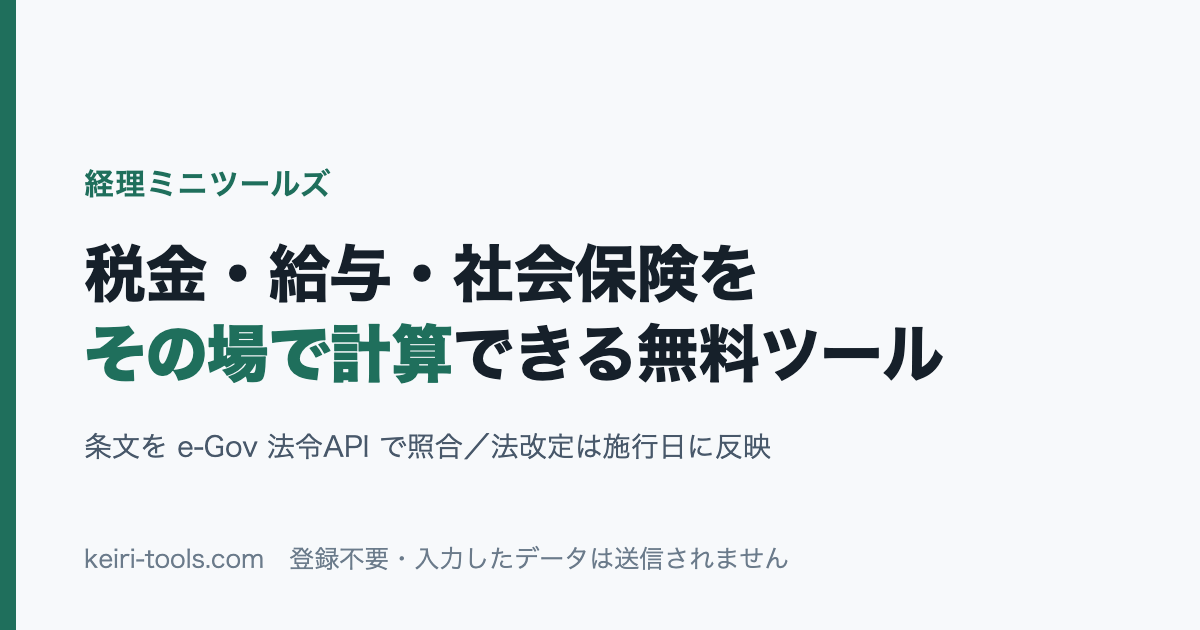
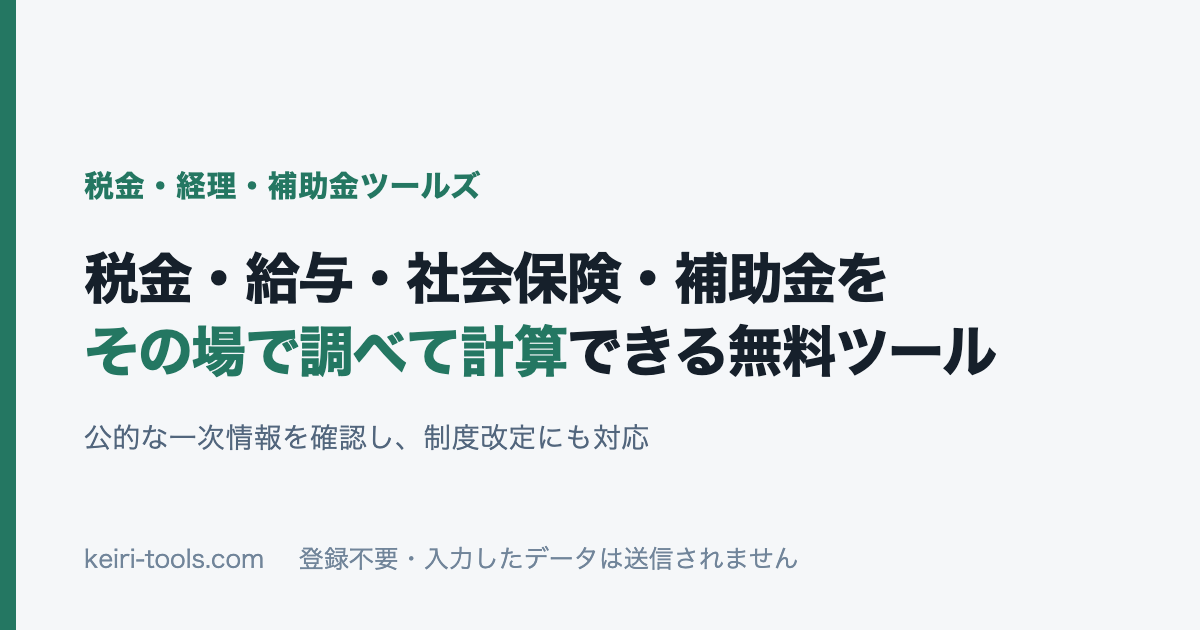
サイト全体レビューの指摘を修正: OGP画像の旧名・viewport欠落7件・404リンク2本ほか
fable にサイト全体をレビューさせ、指摘を codex で修正。
指摘は鵜呑みにせず、外形で確かめられるものは私が全数で当て直した。

■① OGP画像が旧名のままだった ★改称の最大の取りこぼし
`docs/ogp.png` のブランド行が「経理ミニツールズ」のまま。**204ページが og:image
として参照**しており、SNSにどのURLを貼っても旧ブランドのカードが出ていた。
**画像内の文字はテキスト検索に一切かからない**ため、631箇所の一括置換から漏れた。
→ 新名称で再生成。キャッチも「税金・給与・社会保険・補助金を…」に更新。
→ ★生成器を `tools/gen_ogp_image.mjs` + `tools/ogp_template.html` としてコミットした。
  前回は生成スクリプトが残っておらず、それが今回の取りこぼしの原因。二度は落ちない。
→ ★フォント指定を `-apple-system` から `"Hiragino Sans"` 先頭に変えた。
  headless Chromium では `-apple-system` が和文の太いウェイトに解決されず、
  `font-weight:800` を指定しても**細く描画される**（実測で確認。指定を変えただけで
  太さが元画像と揃い、span 境界に出ていた不自然な空きも消えた）。理由はテンプレートに記録。

■② viewport 欠落 7記事 — スマホで約980px幅に縮小描画されていた
実測 `scrollWidth=980`（正常は375）。文字が約1/2.6の大きさで表示される状態。
assyuku-kicho-houshiki / hojokin-asshuku-gendogaku / hojokin-kojin-jigyonushi /
hojokin-koteishisan-genka-shokyaku / hojokin-shiwake / hojokin-shohizei / hotei-fukurihi-keisan
★`test_article_structure.mjs` が viewport を検査していなかったため、
  **テスト全緑のまま素通りしていた**。検査項目に追加し、壊しテストで赤くなることを確認。

■③ 内部リンク切れ2本（本番で404を実測）
  /hotei-fukuri/ の `../shaho/`  → `../shakai-hoken/`（curl実測 404→200）
  /kokuho/ の `../kogaku/`      → `../kogaku-ryoyohi/`（同上）
★どのテストにも掛からず残っていた（7/29・8/08 導入）。
  `tests/test_internal_links.mjs`（4,149リンクをファイル存在で照合）と
  `tests/break_internal_links.mjs`（切断で赤・復元で緑）を追加。

■④ 二重OGP 12記事
`<!-- /ogp:auto -->` の後に手書きの og:/twitter: が丸ごと残り、og:description が
生成分と食い違っていた。head の正本が2つある状態だったので手書き側を削除。

■⑤ 375pxの横はみ出し / about の説明
出典の生URLが折り返せない・表が .scroll-wrap で包まれていない箇所を修正。
[…]

diff --git a/docs/column/taishokukin-zeikin/index.html b/docs/column/taishokukin-zeikin/index.html
@@ -179,12 +179,14 @@
   <h2 id="kekka">結論：退職金の税金はおどろくほど軽い</h2>
   <p>まず、実際の数字を見てください。すべて<b>令和8年分</b>の税率で計算しています（所得税＋復興特別所得税＋住民税10%）。</p>
 
+  <div class="scroll-wrap">
   <table>
     <tr><th>勤続年数</th><th>退職金</th><th>退職所得控除額</th><th>所得税＋復興税</th><th>住民税</th><th>天引き合計</th><th>手取り</th></tr>
     <tr><td>25年</td><td>1,000万円</td><td>1,150万円</td><td>0円</td><td>0円</td><td><b>0円</b></td><td>10,000,000円</td></tr>
     <tr><td>20年</td><td>1,000万円</td><td>800万円</td><td>51,050円</td><td>100,000円</td><td><b>151,050円</b><br>（1.51%）</td><td>9,848,950円</td></tr>
     <tr><td>30年</td><td>2,000万円</td><td>1,500万円</td><td>155,702円</td><td>250,000円</td><td><b>405,702円</b><br>（2.03%）</td><td>19,594,298円</td></tr>
   </table>
+  </div>
   <p style="font-size:13px;color:var(--sub)">※「退職所得の受給に関する申告書」を勤務先に提出している場合。一般退職手当等（勤続5年超・非役員）として計算。</p>
 
   <p>給与に対する税・社会保険の天引きが2割前後になることを考えると、<b>2%前後という軽さ</b>は際立っています。<b>勤続25年で1,000万円なら、1円も引かれません。</b></p>
@@ -200,11 +202,13 @@
 
   <h3>① 退職所得控除額を計算する</h3>
   <p>まず、退職金からごっそり差し引ける枠を計算します。これが<b>退職所得控除額</b>です。</p>
+  <div class="scroll-wrap">
   <table>
     <tr><th>勤続年数（＝A）</th><th>退職所得控除額</th></tr>
     <tr><td>20年以下</td><td><b>40万円 × A</b>（80万円に満たない場合は80万円）</td></tr>
     <tr><td>20年超</td><td><b>800万円 ＋ 70万円 × (A − 20年)</b></td></tr>
   </table>
+  </div>
   <p>勤続30年なら <b>800万円 ＋ 70万円 × 10年 ＝ 1,500万円</b> です。</p>
 
   <div class="callout">
@@ -226,6 +230,7 @@
   <h3>③ 所得税と住民税を計算する（分離課税）</h3>
   <p>退職所得は<b>他の所得と分離して</b>税額を計算します。給与や事業所得と合算しないので、その年に高い給与があっても税率が跳ね上がりません。</p>
   <p><b>所得税</b>は、下の速算表に課税退職所得金額を当てはめます（令和8年分）。</p>
+  <div class="scroll-wrap">
   <table>
     <tr><th>課税退職所得金額（A）</th><th>所得税率（B）</th><th>控除額（C）</th></tr>
     <tr><td>195万円以下</td><td>5%</td><td>0円</td></tr>
@@ -236,6 +241,7 @@
     <tr><td>1,800万円超 4,000万円以下</td><td>40%</td><td>2,796,000円</td></tr>
     <tr><td>4,000万円超</td><td>45%</td><td>4,796,000円</td></tr>
   </table>
+  </div>
   <p style="font-size:13px;color:var(--sub)">税額＝（A × B − C）× <b>102.1%</b>（この2.1%は、令和8年までに受け取る分は復興特別所得税。令和9年1月1日以後に受け取る分は防衛特別所得税1%＋復興特別所得税1.1%に組み替わりますが、合計2.1%は変わりません）。1円未満は切り捨て。</p>
 
   <p><b>住民税</b>は、同じ課税退職所得金額に一律<b>10%</b>（市町村民税6% ＋ 道府県民税4%）です。給与の住民税と違って翌年に請求されるのではなく、<b>退職金の支払時にその場で特別徴収</b>されます。</p>
@@ -297,6 +303,7 @@
   <p>ここが、この記事でいちばん大事なところです。<b>たった1枚の紙で、天引き額が数百万円変わります。</b></p>
   <p>これまで説明した<b>「退職所得控除」も「2分の1課税」も、勤務先が勤続年数を知っていて初めて適用できます</b>。その勤続年数を勤務先に申告する紙が<b>「退職所得の受給に関する申告書（退職所得申告書）」</b>です。</p>
 
+  <div class="scroll-wrap">
   <table>
     <tr><th></th><th>申告書を出した</th><th>出さなかった</th></tr>
     <tr><td>退職所得控除</td><td><b>使える</b></td><td style="color:#a8641b"><b>使えない</b></td></tr>
@@ -304,6 +311,7 @@
     <tr><td>源泉徴収される所得税</td><td>退職所得の金額に応じた正しい税額</td><td style="color:#a8641b"><b>支給額 × 一律 20.42%</b></td></tr>
     <tr><td>確定申告</td><td>原則<b>不要</b></td><td><b>自分で確定申告して精算</b>（放置すると戻らない）</td></tr>
   </table>
+  </div>
 
   <p>同じ<b>勤続30年・退職金2,000万円</b>で比べます。</p>
 
@@ -380,12 +388,14 @@
   <h2 id="tanki">勤続5年以下は要注意（短期退職手当等・特定役員退職手当等）</h2>
   <p>「退職金は必ず2分の1になる」と思っていると足元をすくわれます。<b>勤続5年以下だと、2分の1課税が制限されます。</b></p>
 
+  <div class="scroll-wrap">
   <table>
     <tr><th>区分</th><th>だれが対象か</th><th>2分の1課税</th></tr>
     <tr><td><b>一般退職手当等</b></td><td>下の2つ以外（通常はこれ）</td><td>全額に適用</td></tr>
     <tr><td><b>短期退職手当等</b></td><td>役員等以外で、<b>勤続年数5年以下</b></td><td>（退職金 − 控除額）のうち<b>300万円まで</b>は適用。<b>300万円を超える部分は適用なし</b></td></tr>
     <tr><td><b>特定役員退職手当等</b></td><td><b>役員等勤続年数5年以下</b>の役員等（取締役・執行役・監査役、国会議員・地方議員、国家公務員・地方公務員など）</td><td style="color:#a8641b"><b>まったく適用なし</b></td></tr>
   </table>
+  </div>
   <p style="font-size:13px;color:var(--sub)">「短期退職手当等」は令和4年分から導入された区分です（役員以外にも1／2制限を広げたもの）。「特定役員退職手当等」は平成25年分から。</p>
 
   <h3>実例：勤続4年・退職金600万円（役員ではない社員）</h3>
@@ -451,17 +461,20 @@
   <p>退職所得控除は「勤続年数」で決まります。ところが、iDeCoの加入期間と会社の勤続期間は<b>ふつう重なっています</b>。両方でフルに控除を使えると二重取りになるため、法律（所得税法施行令第70条）は<b>重複期間ぶんの控除額を差し引く</b>調整を定めています。</p>
   <p>問題は、<b>「どこまで過去にさかのぼって調整するか」</b>。ここが受け取る順番で3通りに分かれます。</p>
 
+  <div class="scroll-wrap">
   <table>
     <tr><th>受け取る順番</th><th>さかのぼる期間</th><th>根拠</th></tr>
     <tr><td>退職金 → <b>そのあと</b>退職金</td><td>前年以前 <b>4年内</b></td><td>所得税法施行令70条1項2号イ</td></tr>
     <tr><td><b>DC一時金</b>（iDeCo・企業型DC）→ そのあと退職金</td><td>前年以前 <b>9年内</b><br><span style="font-size:12px;color:var(--sub)">（令和8年1月1日以後に受け取ったDC一時金。それ以前に受け取ったものは従来どおり4年内）</span></td><td>同 ロ</td></tr>
     <tr><td>退職金 → そのあと<b>DC一時金</b></td><td>前年以前 <b>19年内</b></td><td>同 ハ</td></tr>
   </table>
+  </div>
 
   <p>従来「iDeCoは退職金の5年前までに受け取れば調整されない（5年ルール）」と言われていたのは、この<b>4年内</b>が根拠でした。<b>令和8年1月1日以後に受け取るDC一時金からは、これが9年内（＝いわゆる10年ルール）に広がりました。</b>60歳でiDeCoを受け取り、65歳で退職——という定番の組み合わせは、<b>これからは調整の対象になります</b>。</p>
 
   <h3>実例：60歳でiDeCo一時金、65歳で退職金</h3>
   <p>iDeCo加入20年（40〜60歳）、60歳で一時金1,000万円を受給。65歳で退職、勤続40年、退職金2,000万円。</p>
+  <div class="scroll-wrap">
   <table>
     <tr><th></th><th>調整あり（前年以前9年内にiDeCo）</th><th>調整なし（10年以上あけた場合）</th></tr>
     <tr><td>退職所得控除額</td><td>2,200万円 − <b>800万円</b> ＝ <b>1,400万円</b><br><span style="font-size:12px;color:var(--sub)">重複20年ぶん（40万円×20年＝800万円）を差し引く</span></td><td><b>2,200万円</b><br><span style="font-size:12px;color:var(--sub)">800万円＋70万円×20年</span></td></tr>
@@ -470,6 +483,7 @@
     <tr><td>住民税</td><td>300,000円</td><td>0円</td></tr>
     <tr><td><b>天引き合計</b></td><td style="color:#a8641b"><b>506,752円</b></td><td><b>0円</b></td></tr>
   </table>
+  </div>
   <p><b>同じ退職金2,000万円で、税金が506,752円か、ゼロか。</b>受け取る年をずらすだけでこれだけ変わります。</p>
 
   <div class="callout">

diff --git a/docs/iryohi/index.html b/docs/iryohi/index.html
@@ -169,6 +169,7 @@
   <p>「10万円を超えた分が戻ってくる」と誤解されがちですが、戻るのは<b>控除額に税率を掛けた分</b>だけです。下の表は、このページの計算機と<b>同じ計算</b>で出しています（保険金などの補填がない場合）。</p>
 
   <h3>① 年収500万円・所得税率10%の人（足切りは10万円）</h3>
+  <div class="scroll-wrap">
   <table class="tbl" id="hayami-iryohi">
     <thead><tr><th>1年間に払った医療費</th><th>医療費控除の控除額</th><th>戻る税金の目安</th></tr></thead>
     <tbody>
@@ -181,6 +182,7 @@
       <tr><td>¥1,000,000</td><td>¥900,000</td><td>¥181,890</td></tr>
     </tbody>
   </table>
+  </div>
   <div class="callout" id="juman-choudo">
     <b>医療費がちょうど10万円なら、戻るのは0円です</b>
     足切り（この人は10万円）を引いた残りが控除額なので、10万円−10万円＝<b>控除額0円</b>、戻る税金も<b>0円</b>です。10万円は「超えた分から効きはじめる線」であって、「10万円払えば戻ってくる額」ではありません。医療費が<b>12万円</b>でようやく控除額2万円・戻り<b>¥4,042</b>です。
@@ -188,6 +190,7 @@
 
   <h3>② 医療費10万円・年収が低い人（足切りは総所得金額等の5%）</h3>
   <p>総所得金額等が200万円未満なら足切りは<b>その5%</b>になるので、<b>同じ医療費10万円でも戻る額が出ます</b>（所得税法73条1項）。所得税率5%帯として計算しています。</p>
+  <div class="scroll-wrap">
   <table class="tbl" id="hayami-nenshu">
     <thead><tr><th>給与収入（年収）</th><th>総所得金額等</th><th>足切り額</th><th>控除額</th><th>戻る目安</th><th>うち住民税</th></tr></thead>
     <tbody>
@@ -198,6 +201,7 @@
       <tr><td>¥3,000,000</td><td>¥2,020,000</td><td>¥100,000</td><td>¥0</td><td>¥0</td><td>¥0</td></tr>
     </tbody>
   </table>
+  </div>
   <div class="note" id="hayami-note">
     <b>この帯の人は、所得税がもともと0円のことがあります。</b>所得控除を増やしても<b>納めていない所得税は戻りません</b>（表の「うち住民税」の列だけが残ります）。また足切りは<b>年収ではなく総所得金額等</b>で決まるため、<b>年収およそ298万円から10万円側に切り替わります</b>（令和8年分の給与所得控除で換算した場合）。表の額は令和8年分・保険金の補填なし・社会保険料などの他の控除は考慮しない<b>目安</b>です。
   </div>

diff --git a/docs/column/furusato-nozei-keisan/index.html b/docs/column/furusato-nozei-keisan/index.html
@@ -291,11 +291,13 @@
   <h2 id="chokabun">上限を1円でも超えるとどうなるか（超過分は全額自己負担）</h2>
   <p>ここが「計算」の核心です。上限を超えた寄附は、<b>超過分が丸ごと自己負担</b>になります。理由は、③住民税特例分の<b>「所得割額の20％」という天井</b>。寄附を増やしても③はそこで頭打ちになり、①②を足しても「寄附額−2,000円」に届かなくなるからです。</p>
   <p>先ほどの<b>年収500万・独身（上限60,704円・改正前）</b>の人が、勢いで80,000円を寄附した場合を見ます。</p>
+  <div class="scroll-wrap">
   <table>
     <tr><th>寄附額</th><th>① 所得税</th><th>② 住民税基本分</th><th>③ 住民税特例分</th><th>控除の合計</th><th>自己負担</th></tr>
     <tr><td>60,000円（上限内）</td><td>5,921円</td><td>5,800円</td><td>46,279円</td><td>58,000円</td><td><b>2,000円</b></td></tr>
     <tr style="border-top:2px solid var(--accent)"><td>80,000円（上限超え）</td><td>7,963円</td><td>7,800円</td><td><b>46,840円</b>（天井）</td><td>62,603円</td><td><b>17,397円</b></td></tr>
   </table>
+  </div>
   <p>寄附を60,000円から80,000円へ2万円増やしたのに、③特例分は<b>46,279円→46,840円へ561円しか増えていません</b>（天井46,840円に張り付いたため）。結果、<b>自己負担は2,000円から17,397円へ跳ね上がります</b>。増やした2万円のうち、税金で戻るのは①②③合わせて約4,600円だけ。差額の約1万5千円は、返礼品の価値（寄附額の3割まで＝この場合2.4万円）を差し引いても、多くの場合<b>実損</b>です。</p>
   <div class="callout">
     <b>だから「上限を知ること」が全て</b>

diff --git a/tools/ogp_template.html b/tools/ogp_template.html
@@ -1,0 +1,20 @@
+<!-- ★フォントは "Hiragino Sans" を先頭に置く。-apple-system は headless Chromium で
+     和文の太いウェイトに解決されず、font-weight:800 を指定しても細く出る
+     （2026-08-13 実測: 指定を変えただけで見出しの太さが元画像と揃い、
+      span 境界に出ていた不自然な空きも消えた）。-->
+<!doctype html><html lang="ja"><meta charset="utf-8"><style>
+*{box-sizing:border-box}html,body{margin:0;width:1200px;height:630px;overflow:hidden}
+body{font-family:"Hiragino Sans","Hiragino Kaku Gothic ProN","Yu Gothic",Meiryo,sans-serif;background:#f5f7f9;color:#16202b;border-left:16px solid #247762}
+.canvas{height:100%;padding:164px 68px 52px}
+.brand{color:#247762;font-size:30px;font-weight:800;letter-spacing:.02em;margin-bottom:34px}
+.headline{font-size:55px;font-weight:800;line-height:1.32;letter-spacing:-.025em;margin:0;white-space:nowrap}
+.accent{color:#247762}
+.sub{margin-top:28px;color:#52667d;font-size:28px;letter-spacing:.01em}
+.foot{position:absolute;left:84px;bottom:52px;color:#71859a;font-size:25px}
+.foot span{margin-left:26px}
+</style><body><main class="canvas">
+<div class="brand">税金・経理・補助金ツールズ</div>
+<h1 class="headline">税金・給与・社会保険・補助金を<br><span class="accent">その場で調べて計算</span>できる無料ツール</h1>
+<div class="sub">公的な一次情報を確認し、制度改定にも対応</div>
+<div class="foot">keiri-tools.com <span>登録不要・入力したデータは送信されません</span></div>
+</main></body></html>

diff --git a/docs/column/kyuyo-keisan-machigai-teisei/index.html b/docs/column/kyuyo-keisan-machigai-teisei/index.html
@@ -6,7 +6,6 @@
 <link rel="icon" href="/favicon.ico" sizes="any">
 <link rel="icon" type="image/png" href="/favicon-32.png" sizes="32x32">
 <link rel="apple-touch-icon" href="/apple-touch-icon.png">
-<link rel="icon" href="/favicon.ico" sizes="any">
 <meta name="viewport" content="width=device-width,initial-scale=1">
 <title>給与計算を間違えたときの訂正方法｜過払い・不足・翌月精算</title>
 <meta name="description" content="給与計算を間違えたときの訂正方法を、過払い・不足払い別に解説。本人への説明、差額精算、賃金台帳・社会保険・源泉所得税・住民税の直し方を具体例で整理します。">
@@ -22,14 +21,6 @@
 <meta property="og:locale" content="ja_JP">
 <meta name="twitter:card" content="summary_large_image">
 <!-- /ogp:auto -->
-<meta property="og:type" content="article">
-<meta property="og:title" content="給与計算を間違えたときの訂正方法｜過払い・不足・翌月精算">
-<meta property="og:description" content="給与計算ミスを過払い・不足払い別に、差額精算と帳簿訂正まで解説。">
-<meta property="og:url" content="https://keiri-tools.com/column/kyuyo-keisan-machigai-teisei/">
-<meta property="og:image" content="https://keiri-tools.com/ogp.png">
-<meta property="og:site_name" content="税金・経理・補助金ツールズ">
-<meta property="og:locale" content="ja_JP">
-<meta name="twitter:card" content="summary_large_image">
 <script type="application/ld+json">
 {
   "@context": "https://schema.org",

diff --git a/docs/column/rodo-hoken-nendo-koshin/index.html b/docs/column/rodo-hoken-nendo-koshin/index.html
@@ -6,7 +6,6 @@
 <link rel="icon" href="/favicon.ico" sizes="any">
 <link rel="icon" type="image/png" href="/favicon-32.png" sizes="32x32">
 <link rel="apple-touch-icon" href="/apple-touch-icon.png">
-<link rel="icon" href="/favicon.ico" sizes="any">
 <meta name="viewport" content="width=device-width,initial-scale=1">
 <title>労働保険の年度更新とは｜賃金集計・対象者・申告納付</title>
 <meta name="description" content="令和8年度の労働保険年度更新を解説。令和7年度の確定保険料と令和8年度の概算保険料、賃金集計、対象者、申告納付、6月1日から7月10日までの手順を整理します。">
@@ -22,14 +21,6 @@
 <meta property="og:locale" content="ja_JP">
 <meta name="twitter:card" content="summary_large_image">
 <!-- /ogp:auto -->
-<meta property="og:type" content="article">
-<meta property="og:title" content="労働保険の年度更新とは｜賃金集計・対象者・申告納付">
-<meta property="og:description" content="令和8年度の年度更新について、賃金集計・対象者・申告納付の流れを解説。">
-<meta property="og:url" content="https://keiri-tools.com/column/rodo-hoken-nendo-koshin/">
-<meta property="og:image" content="https://keiri-tools.com/ogp.png">
-<meta property="og:site_name" content="税金・経理・補助金ツールズ">
-<meta property="og:locale" content="ja_JP">
-<meta name="twitter:card" content="summary_large_image">
 <script type="application/ld+json">
 {
   "@context": "https://schema.org",

diff --git a/docs/column/chingin-daicho/index.html b/docs/column/chingin-daicho/index.html
@@ -6,7 +6,6 @@
 <link rel="icon" href="/favicon.ico" sizes="any">
 <link rel="icon" type="image/png" href="/favicon-32.png" sizes="32x32">
 <link rel="apple-touch-icon" href="/apple-touch-icon.png">
-<link rel="icon" href="/favicon.ico" sizes="any">
 <meta name="viewport" content="width=device-width,initial-scale=1">
 <title>賃金台帳とは｜記載項目・保存期間・給与明細との違い</title>
 <meta name="description" content="賃金台帳とは何かを、労働基準法108条と施行規則54条に基づき解説。必須記載項目、保存期間、給与明細や労働者名簿との違い、訂正方法を実務例で整理します。">
@@ -22,14 +21,6 @@
 <meta property="og:locale" content="ja_JP">
 <meta name="twitter:card" content="summary_large_image">
 <!-- /ogp:auto -->
-<meta property="og:type" content="article">
-<meta property="og:title" content="賃金台帳とは｜記載項目・保存期間・給与明細との違い">
-<meta property="og:description" content="賃金台帳の必須記載項目、保存期間、給与明細との違いを一次情報に基づいて解説。">
-<meta property="og:url" content="https://keiri-tools.com/column/chingin-daicho/">
-<meta property="og:image" content="https://keiri-tools.com/ogp.png">
-<meta property="og:site_name" content="税金・経理・補助金ツールズ">
-<meta property="og:locale" content="ja_JP">
-<meta name="twitter:card" content="summary_large_image">
 <script type="application/ld+json">
 {
   "@context": "https://schema.org",

diff --git a/docs/column/hotei-fukurihi-keisan/index.html b/docs/column/hotei-fukurihi-keisan/index.html
@@ -1,4 +1,5 @@
 <!DOCTYPE html><html lang="ja"><head><meta charset="utf-8">
+<meta name="viewport" content="width=device-width,initial-scale=1">
 <!-- favicon:auto -->
 <link rel="icon" href="/favicon.ico" sizes="any">
 <link rel="icon" type="image/png" href="/favicon-32.png" sizes="32x32">
@@ -14,7 +15,6 @@
 <meta property="og:locale" content="ja_JP">
 <meta name="twitter:card" content="summary_large_image">
 <!-- /ogp:auto -->
-<meta property="og:type" content="article"><meta property="og:title" content="法定福利費とは｜給与・賞与から会社負担額を計算"><meta property="og:description" content="令和8年度の料率で健康保険・厚生年金・雇用保険・労災保険等の会社負担を計算。"><meta property="og:url" content="https://keiri-tools.com/column/hotei-fukurihi-keisan/"><meta property="og:image" content="https://keiri-tools.com/ogp.png"><meta property="og:site_name" content="税金・経理・補助金ツールズ"><meta property="og:locale" content="ja_JP"><meta name="twitter:card" content="summary_large_image">
 <script type="application/ld+json">
 {
   "@context": "https://schema.org",

diff --git a/docs/about/index.html b/docs/about/index.html
@@ -74,6 +74,7 @@
   <p class="article-meta">最終更新: 2026年7月18日</p>
 
   <p>税金・経理・補助金ツールズは、<b>税金・給与・社会保険の、毎回調べ直すことになる計算</b>を、無料のツールにして公開しているサイトです。手取り、社会保険料、ふるさと納税の上限、源泉徴収税額、有給休暇の付与日数——どれも「調べれば分かるが、毎回調べるのが面倒」な種類の作業です。</p>
+  <p>あわせて<b>補助金・助成金</b>も扱っています。<a href="../hojokin/">いま公募中の補助金</a>を締切が近い順に探せるほか、国の主要補助金の受付状況と、厚生労働省の雇用関係助成金の一覧を載せています。受け取った<b>後</b>の経理・税務（圧縮記帳・特別勘定・仕訳の計上時期）も、<a href="../hojokin-zeimu/">計算ツール</a>と<a href="../column/">解説記事</a>で扱います。申請の代行や、個別の案件が対象になるかの判断は行っていません。</p>
 
   <h2>3つの方針</h2>
 

diff --git a/docs/assets/style.css b/docs/assets/style.css
@@ -60,7 +60,8 @@ input[type="number"], input[type="text"], input[type="email"], input[type="date"
 }
 .radio-row input { margin-right: 6px; }
 .fee-pair { display: flex; gap: 12px; }
-.fee-pair > div { flex: 1; }
+.fee-pair > div { flex: 1; min-width: 0; }
+input[type="date"] { min-width: 0; }
 button.primary {
   width: 100%;
   margin-top: 18px;
@@ -148,6 +149,7 @@ article h2 { font-size: 21px; margin-top: 44px; padding: 8px 0 8px 12px; border-
 article h3 { font-size: 16.5px; margin-top: 28px; padding-bottom: 4px; border-bottom: 2px dotted var(--line); scroll-margin-top: 16px; }
 /* 本文16px: 読みやすい定番サイトの実測(サルワカ17px・note/Zenn 16px以上)に合わせ15→16px(2026-07-23) */
 article p, article li { font-size: 16px; line-height: 1.95; }
+article a, article b { overflow-wrap: anywhere; }
 article table { border-collapse: collapse; width: 100%; font-size: 14px; margin: 16px 0; }
 article th, article td { border: 1px solid var(--line); padding: 9px 11px; text-align: left; }
 article th { background: var(--accent-soft); font-weight: 700; }

diff --git a/docs/column/kyushoku-shakai-hokenryo/index.html b/docs/column/kyushoku-shakai-hokenryo/index.html
@@ -17,7 +17,7 @@
 <meta property="og:site_name" content="税金・経理・補助金ツールズ">
 <meta property="og:locale" content="ja_JP">
 <meta name="twitter:card" content="summary_large_image">
-<!-- /ogp:auto --><meta property="og:type" content="article"><meta property="og:title" content="休職中の社会保険料はどう徴収する？給与ゼロ・立替金の仕訳"><meta property="og:description" content="給与ゼロの休職中も発生する社会保険料の徴収方法、復職後控除、立替金仕訳を整理。"><meta property="og:url" content="https://keiri-tools.com/column/kyushoku-shakai-hokenryo/"><meta property="og:image" content="https://keiri-tools.com/ogp.png"><meta property="og:site_name" content="税金・経理・補助金ツールズ"><meta property="og:locale" content="ja_JP"><meta name="twitter:card" content="summary_large_image">
+<!-- /ogp:auto -->
 <script type="application/ld+json">
 {
   "@context": "https://schema.org",

diff --git a/docs/nenshu/index.html b/docs/nenshu/index.html
@@ -83,7 +83,7 @@
 <p class="note">所得税は含めていません（扶養や控除で人により変わるため）。所得税まで含めた計算は<a href="../tedori/">手取り計算機</a>をお使いください。</p>
 </article>
 </main>
-<footer class="site"><div><a href="../../about/">運営者</a>／<a href="../../privacy/">プライバシー</a>／<a href="../../contact/">お問い合わせ</a></div><div class="copy">© 税金・経理・補助金ツールズ</div>
+<footer class="site"><div><a href="/about/">運営者</a>／<a href="/privacy/">プライバシー</a>／<a href="/contact/">お問い合わせ</a></div><div class="copy">© 税金・経理・補助金ツールズ</div>
   <!-- x-link:auto --><div style="margin-top:6px;font-size:12px;color:var(--sub)">法改定は施行日に反映しています。更新の通知 → <a href="https://x.com/keiri_tools" rel="me noopener" style="color:var(--sub)">@keiri_tools</a></div>
 </footer>
 </body>
